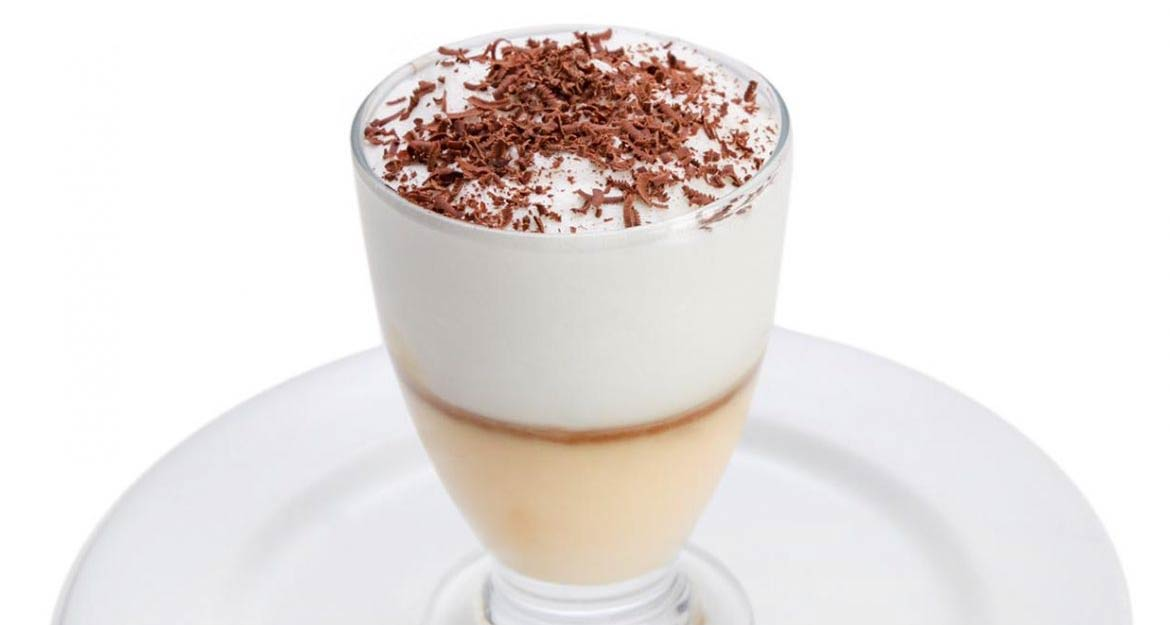
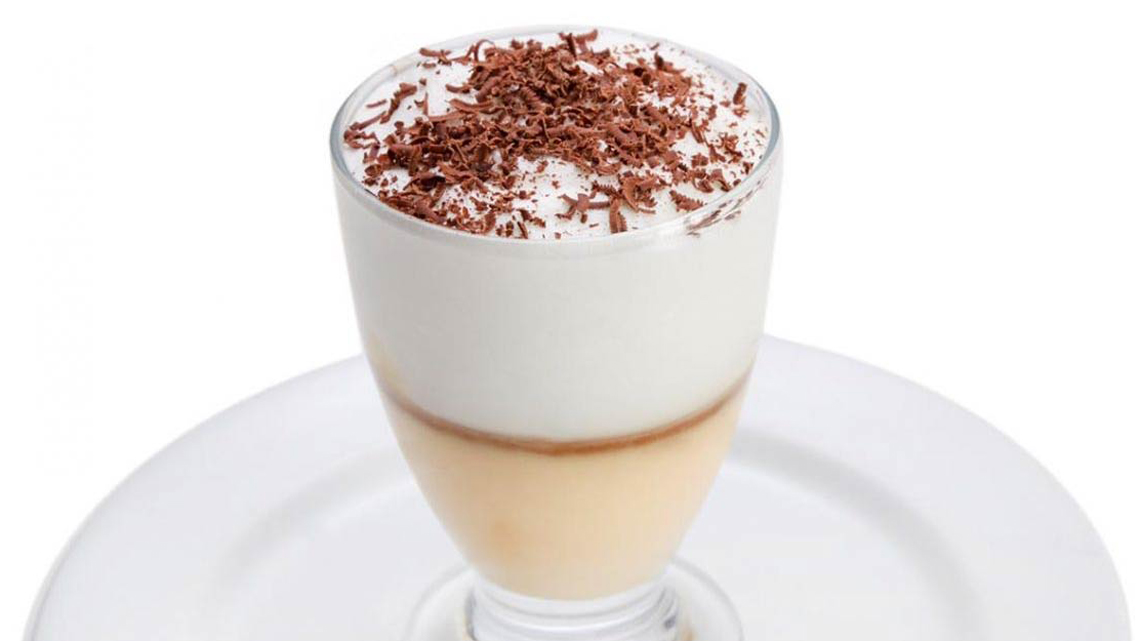
performance test.

diff --git a/index.html b/index.html
@@ -80,7 +80,7 @@
                     <div class="col ">
                         <div class="card shadow-sm w-75 bg-light border mx-auto">
                             <a href="restaurant.html">
-                                <img src="resources/images/melita-edit.jpg"
+                                <img src="resources/images/melita.jpg"
                                     class="img-fluid rounded float-start img-responsive" alt="Melita's restaurant">
                             </a>
 
